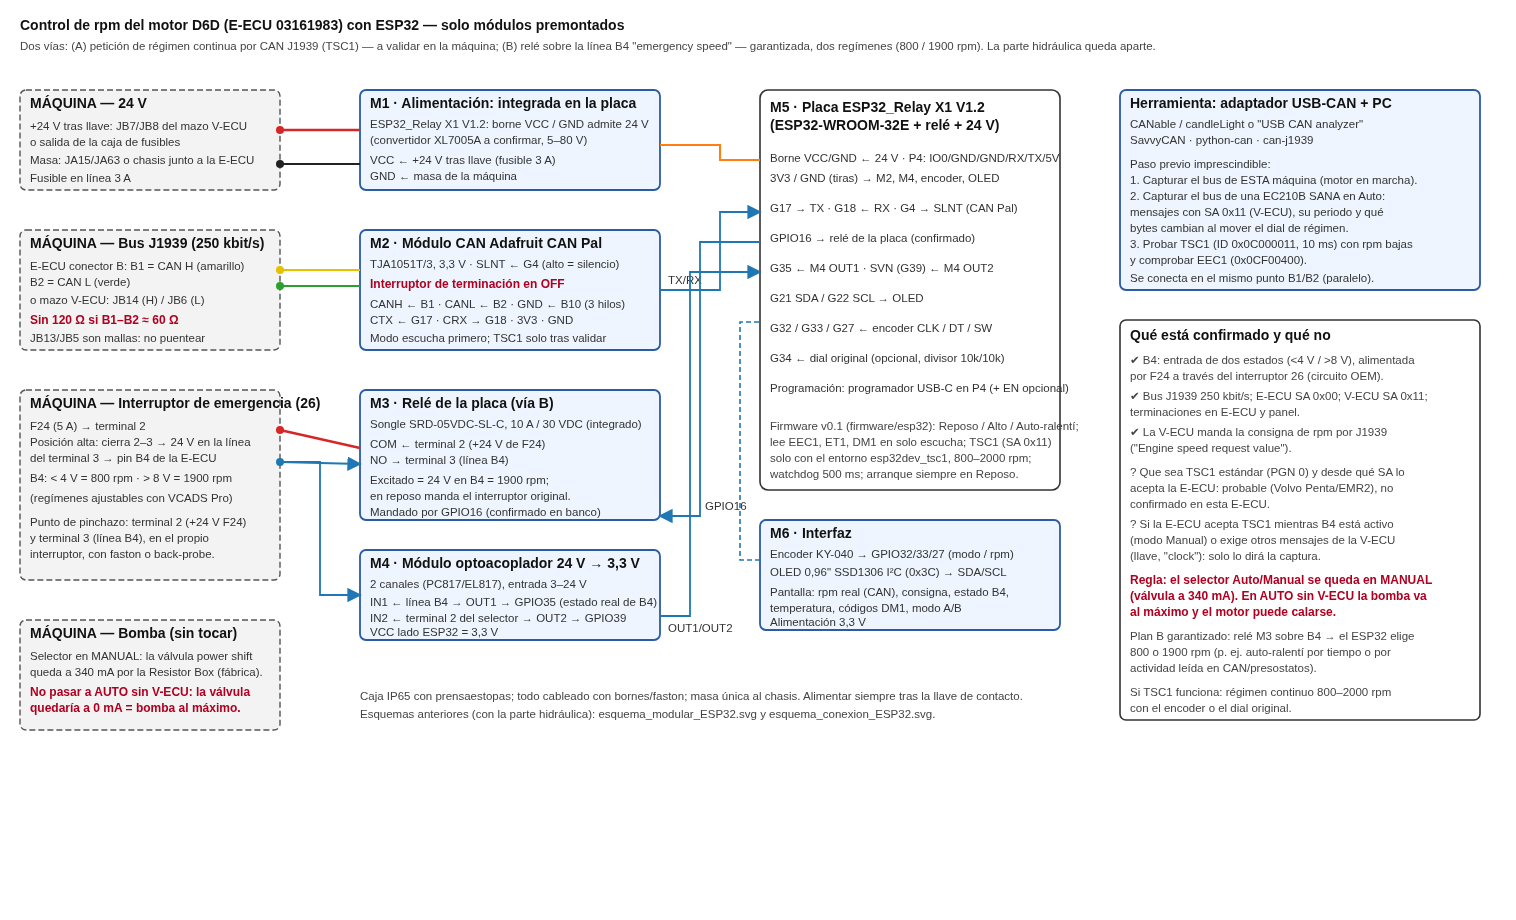
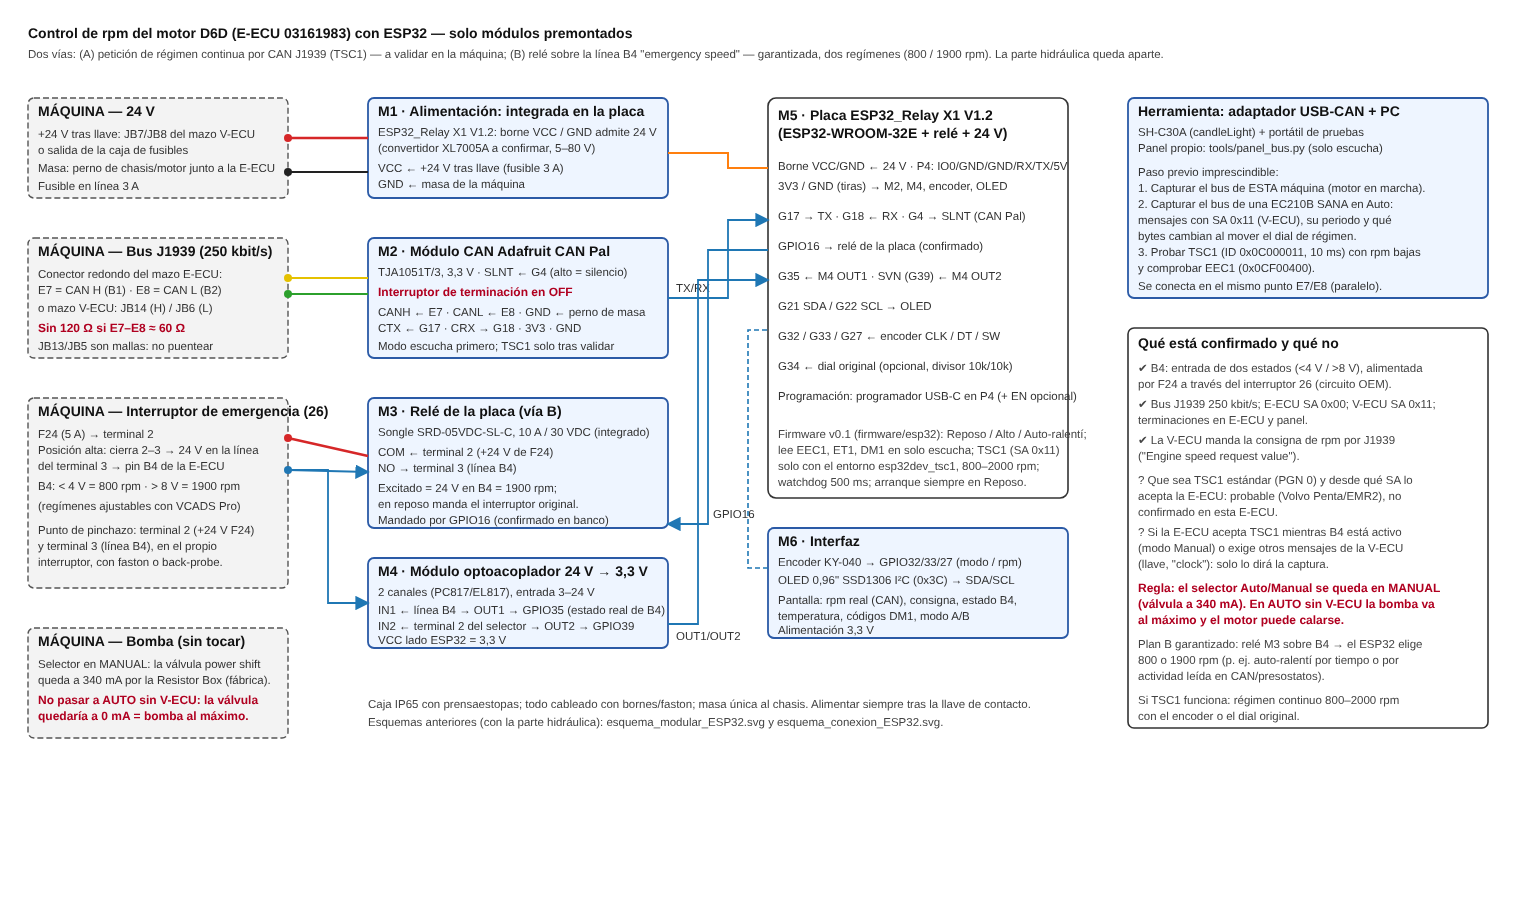
Esquemas rpm y conexión: CAN en E7/E8 del conector redondo y masa en perno de chasis
Claude-Session: https://claude.ai/code/session_01P7Zsw5NLTBMVKWo4ZsTFMR

diff --git a/CHANGELOG.md b/CHANGELOG.md
@@ -5,6 +5,7 @@ Todos los cambios relevantes del proyecto se documentan aquí. Formato basado en
 ## [Unreleased]
 
 ### Añadido (punto de conexión)
+- `esquema_rpm_ESP32` y `esquema_conexion_ESP32`: punto de conexión del CAN en **E7/E8 del conector redondo** y masa en un **perno de chasis/motor** (antes B1/B2 y B9/B10 de la clavija de la E-ECU). En el de rpm, la herramienta de captura pasa a ser el SH-C30A con el panel propio (`tools/panel_bus.py`).
 - Diagrama de montaje (`esquema_montaje_ESP32`, `tools/gen_esquema_montaje.py`): el conector B de la E-ECU se sustituye por el **conector redondo del mazo de la E-ECU** (H → E7, L → E8) y un **perno de masa de chasis** para el GND del CAN Pal y de la placa; B4 sigue en el terminal 3 del interruptor 26. `MONTAJE.md` §3–§4 y README al día.
 - Diagrama de captura: la pantalla del portátil muestra el **panel del bus** (aplicación propia, 127.0.0.1:8766), con cómo abrirlo (acceso del escritorio o `panel_bus.py`, `--demo`) y el panel de la placa ESP32 por el otro USB. Pasos y análisis desde la guía y el botón Analizar del panel.
 - Guía paso a paso del panel del bus (`tools/panel_bus.html`) al día con el punto de conexión real: medidas y conexión en **E7/E8** del conector redondo y masa en un perno de chasis/motor (antes B1/B2/B9 en la clavija de la E-ECU). `docs/CAPTURA_CAN.md` §1 y §3, igual.
